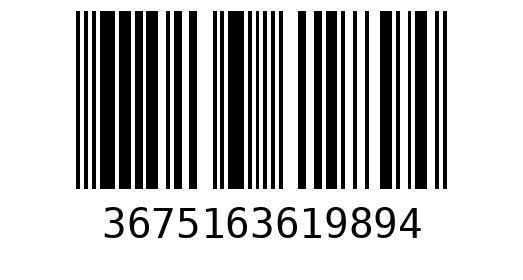
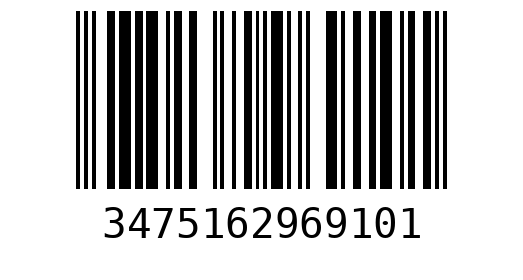
correcion caso final

diff --git a/qr.py b/qr.py
@@ -3,7 +3,7 @@ import barcode
 from barcode.writer import ImageWriter
 
 # Establecer los primeros 5 dígitos de 1 a 5, pero comenzando con 1
-first_digits = '12345'
+first_digits = '34751'
 
 # Los siguientes 7 dígitos se generan aleatoriamente
 remaining_digits = ''.join(str(random.randint(0, 9)) for _ in range(7))
